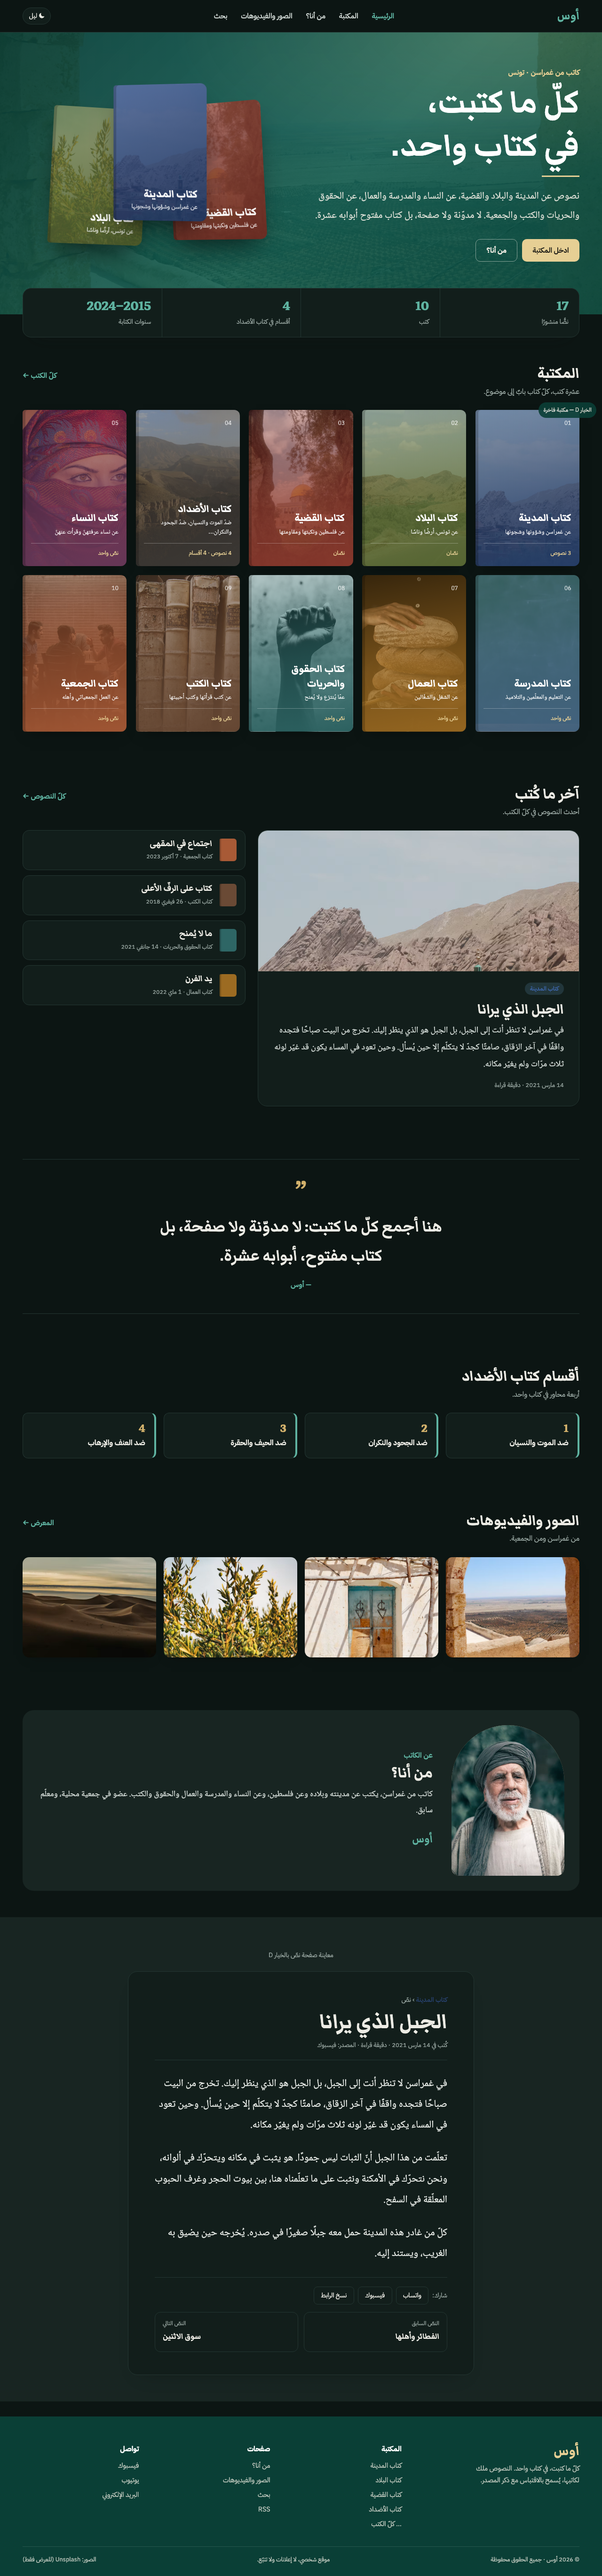
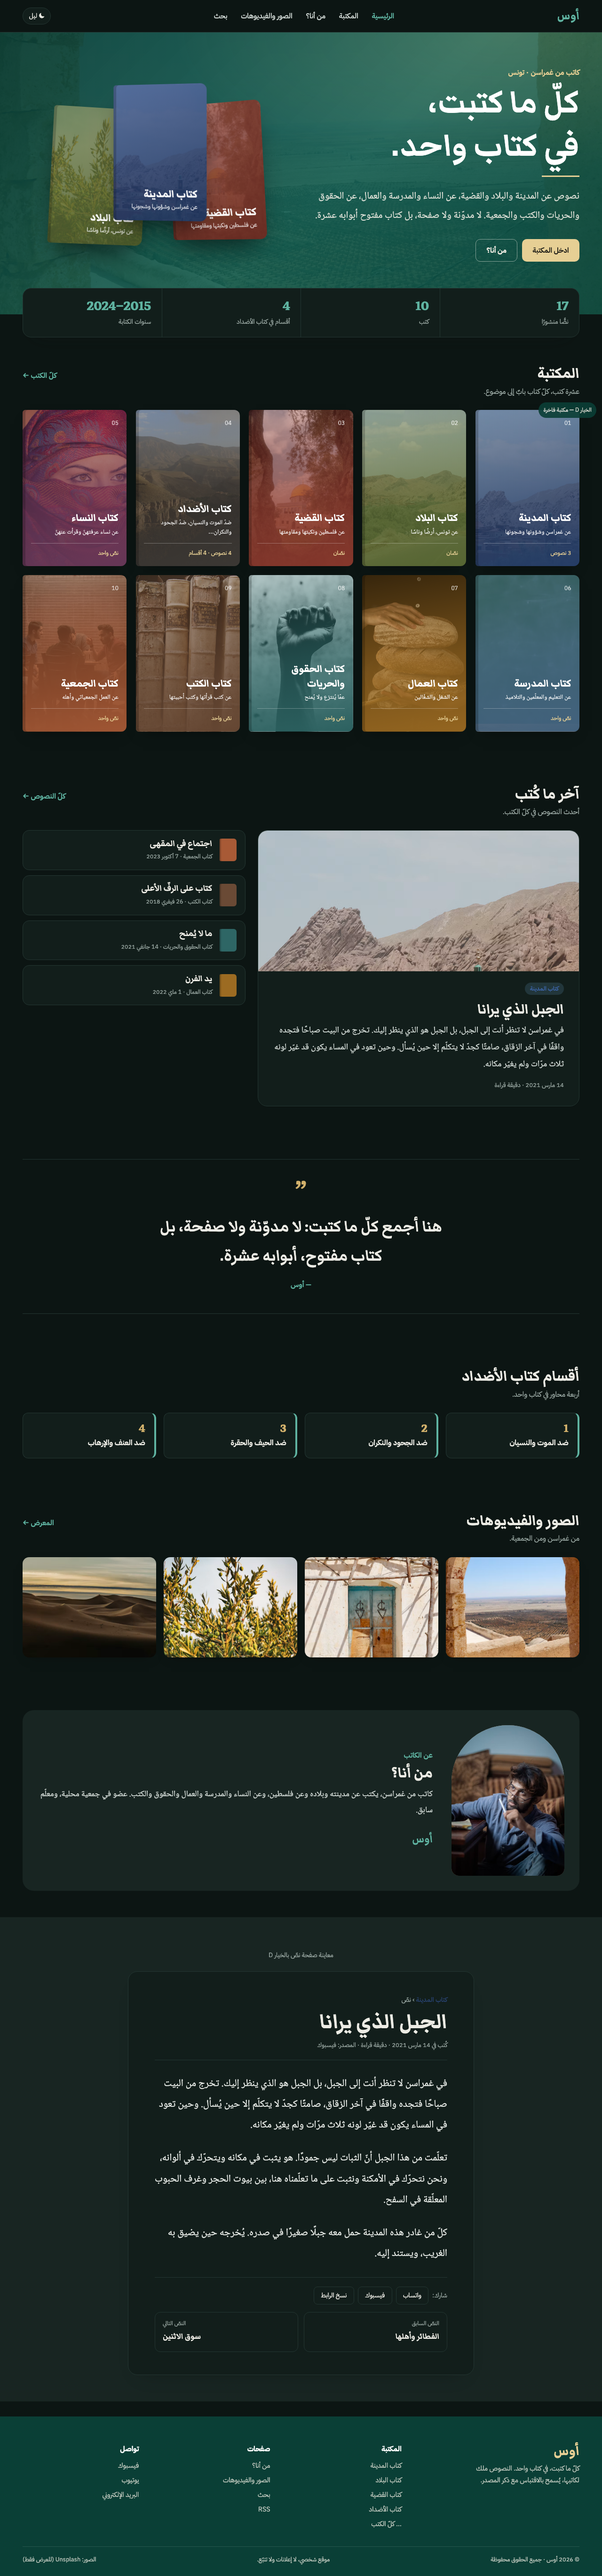
Use a young writer portrait for the author section

Changed region(s): [[0.75, 0.656, 0.9375, 0.7497]]

diff --git a/option-g-marbre.html b/option-g-marbre.html
@@ -124,7 +124,7 @@ footer h5{color:#fff;margin:0 0 .6rem;font-size:.9rem;letter-spacing:.04em}foote
     <div class="gal"><img src="https://images.unsplash.com/photo-1681395527525-84a64ae0f3f0?auto=format&fit=crop&w=600&h=600&q=60" alt=""><img src="https://images.unsplash.com/photo-1565459374854-6fa73a99abf5?auto=format&fit=crop&w=600&h=600&q=60" alt=""><img src="https://images.unsplash.com/photo-1681395944881-434d91bcfef7?auto=format&fit=crop&w=600&h=600&q=60" alt=""><img src="https://images.unsplash.com/photo-1790472690735-30acba16d018?auto=format&fit=crop&w=600&h=600&q=60" alt=""></div>
   </section>
   <section>
-    <div class="about"><img class="ph" src="https://images.unsplash.com/photo-1735063456221-91dcb101285b?auto=format&fit=crop&w=600&h=800&q=70" alt="الكاتب" style="object-fit:cover;width:100%"><div><div class="eyebrow">عن الكاتب</div><h2>من أنا؟</h2><p>كاتب من غمراسن، يكتب عن مدينته وبلاده وعن فلسطين، وعن النساء والمدرسة والعمال والحقوق والكتب. عضو في جمعية محلية، ومعلّم سابق.</p><a class="btn o" style="margin:0" href="#">اقرأ السيرة</a></div></div>
+    <div class="about"><img class="ph" src="https://images.unsplash.com/photo-1783873231941-f00cede9e9f3?auto=format&fit=crop&w=600&h=800&q=70" alt="الكاتب" style="object-fit:cover;width:100%;filter:grayscale(1) contrast(1.05)"><div><div class="eyebrow">عن الكاتب</div><h2>من أنا؟</h2><p>كاتب من غمراسن، يكتب عن مدينته وبلاده وعن فلسطين، وعن النساء والمدرسة والعمال والحقوق والكتب. عضو في جمعية محلية، ومعلّم سابق.</p><a class="btn o" style="margin:0" href="#">اقرأ السيرة</a></div></div>
   </section>
 </main>
 

diff --git a/option-e-encre.html b/option-e-encre.html
@@ -144,7 +144,7 @@ footer h5{color:#fff;margin:0 0 .6rem;font-size:.95rem}footer .logo{color:var(--
     <div class="gal"><img src="https://images.unsplash.com/photo-1681395944491-aad63cd10e09?auto=format&fit=crop&w=600&h=450&q=60" alt=""><img src="https://images.unsplash.com/photo-1681395527525-84a64ae0f3f0?auto=format&fit=crop&w=600&h=450&q=60" alt=""><img src="https://images.unsplash.com/photo-1681395944881-434d91bcfef7?auto=format&fit=crop&w=600&h=450&q=60" alt=""><img src="https://images.unsplash.com/photo-1565459374854-6fa73a99abf5?auto=format&fit=crop&w=600&h=450&q=60" alt=""></div>
   </section>
   <section>
-    <div class="about"><img class="ph" src="https://images.unsplash.com/photo-1735063456221-91dcb101285b?auto=format&fit=crop&w=600&h=800&q=70" alt="الكاتب" style="object-fit:cover;width:100%"><div><div class="kick" style="color:var(--wine)">عن الكاتب</div><h2>من أنا؟</h2><p>كاتب من غمراسن، يكتب عن مدينته وبلاده وعن فلسطين، وعن النساء والمدرسة والعمال والحقوق والكتب. عضو في جمعية محلية، ومعلّم سابق.</p><div class="sig">أوس</div></div></div>
+    <div class="about"><img class="ph" src="https://images.unsplash.com/photo-1783873231941-f00cede9e9f3?auto=format&fit=crop&w=600&h=800&q=70" alt="الكاتب" style="object-fit:cover;width:100%;filter:grayscale(1) contrast(1.05)"><div><div class="kick" style="color:var(--wine)">عن الكاتب</div><h2>من أنا؟</h2><p>كاتب من غمراسن، يكتب عن مدينته وبلاده وعن فلسطين، وعن النساء والمدرسة والعمال والحقوق والكتب. عضو في جمعية محلية، ومعلّم سابق.</p><div class="sig">أوس</div></div></div>
   </section>
 </main>
 

diff --git a/option-f-sud.html b/option-f-sud.html
@@ -133,7 +133,7 @@ footer h5{color:#fff;margin:0 0 .6rem;font-size:.95rem}footer .logo{color:var(--
   </section>
 
   <section>
-    <div class="about"><img class="ph" src="https://images.unsplash.com/photo-1697043593488-d496da1e071c?auto=format&fit=crop&w=600&h=800&q=70" alt="الكاتب" style="object-fit:cover;width:100%"><div><div class="kick" style="color:var(--terra)">عن الكاتب</div><h2>من أنا؟</h2><p>كاتب من غمراسن، يكتب عن مدينته وبلاده وعن فلسطين، وعن النساء والمدرسة والعمال والحقوق والكتب. عضو في جمعية محلية، ومعلّم سابق.</p><a class="btn g" style="background:var(--terra);color:#fff" href="#">اقرأ السيرة</a></div></div>
+    <div class="about"><img class="ph" src="https://images.unsplash.com/photo-1783873231941-f00cede9e9f3?auto=format&fit=crop&w=600&h=800&q=70" alt="الكاتب" style="object-fit:cover;width:100%;object-position:center top"><div><div class="kick" style="color:var(--terra)">عن الكاتب</div><h2>من أنا؟</h2><p>كاتب من غمراسن، يكتب عن مدينته وبلاده وعن فلسطين، وعن النساء والمدرسة والعمال والحقوق والكتب. عضو في جمعية محلية، ومعلّم سابق.</p><a class="btn g" style="background:var(--terra);color:#fff" href="#">اقرأ السيرة</a></div></div>
   </section>
 </main>
 

diff --git a/option-d-premium.html b/option-d-premium.html
@@ -137,7 +137,7 @@ footer h5{color:#fff;margin:0 0 .6rem;font-size:.95rem}footer .logo{color:var(--
   </section>
 
   <section>
-    <div class="about"><img class="ph" src="https://images.unsplash.com/photo-1697043593488-d496da1e071c?auto=format&fit=crop&w=600&h=800&q=70" alt="الكاتب" style="object-fit:cover;width:100%"><div><div class="kick" style="color:var(--em)">عن الكاتب</div><h2>من أنا؟</h2><p>كاتب من غمراسن، يكتب عن مدينته وبلاده وعن فلسطين، وعن النساء والمدرسة والعمال والحقوق والكتب. عضو في جمعية محلية، ومعلّم سابق.</p><div class="sig">أوس</div></div></div>
+    <div class="about"><img class="ph" src="https://images.unsplash.com/photo-1783873231941-f00cede9e9f3?auto=format&fit=crop&w=600&h=800&q=70" alt="الكاتب" style="object-fit:cover;width:100%;object-position:center top"><div><div class="kick" style="color:var(--em)">عن الكاتب</div><h2>من أنا؟</h2><p>كاتب من غمراسن، يكتب عن مدينته وبلاده وعن فلسطين، وعن النساء والمدرسة والعمال والحقوق والكتب. عضو في جمعية محلية، ومعلّم سابق.</p><div class="sig">أوس</div></div></div>
   </section>
 </main>
 
